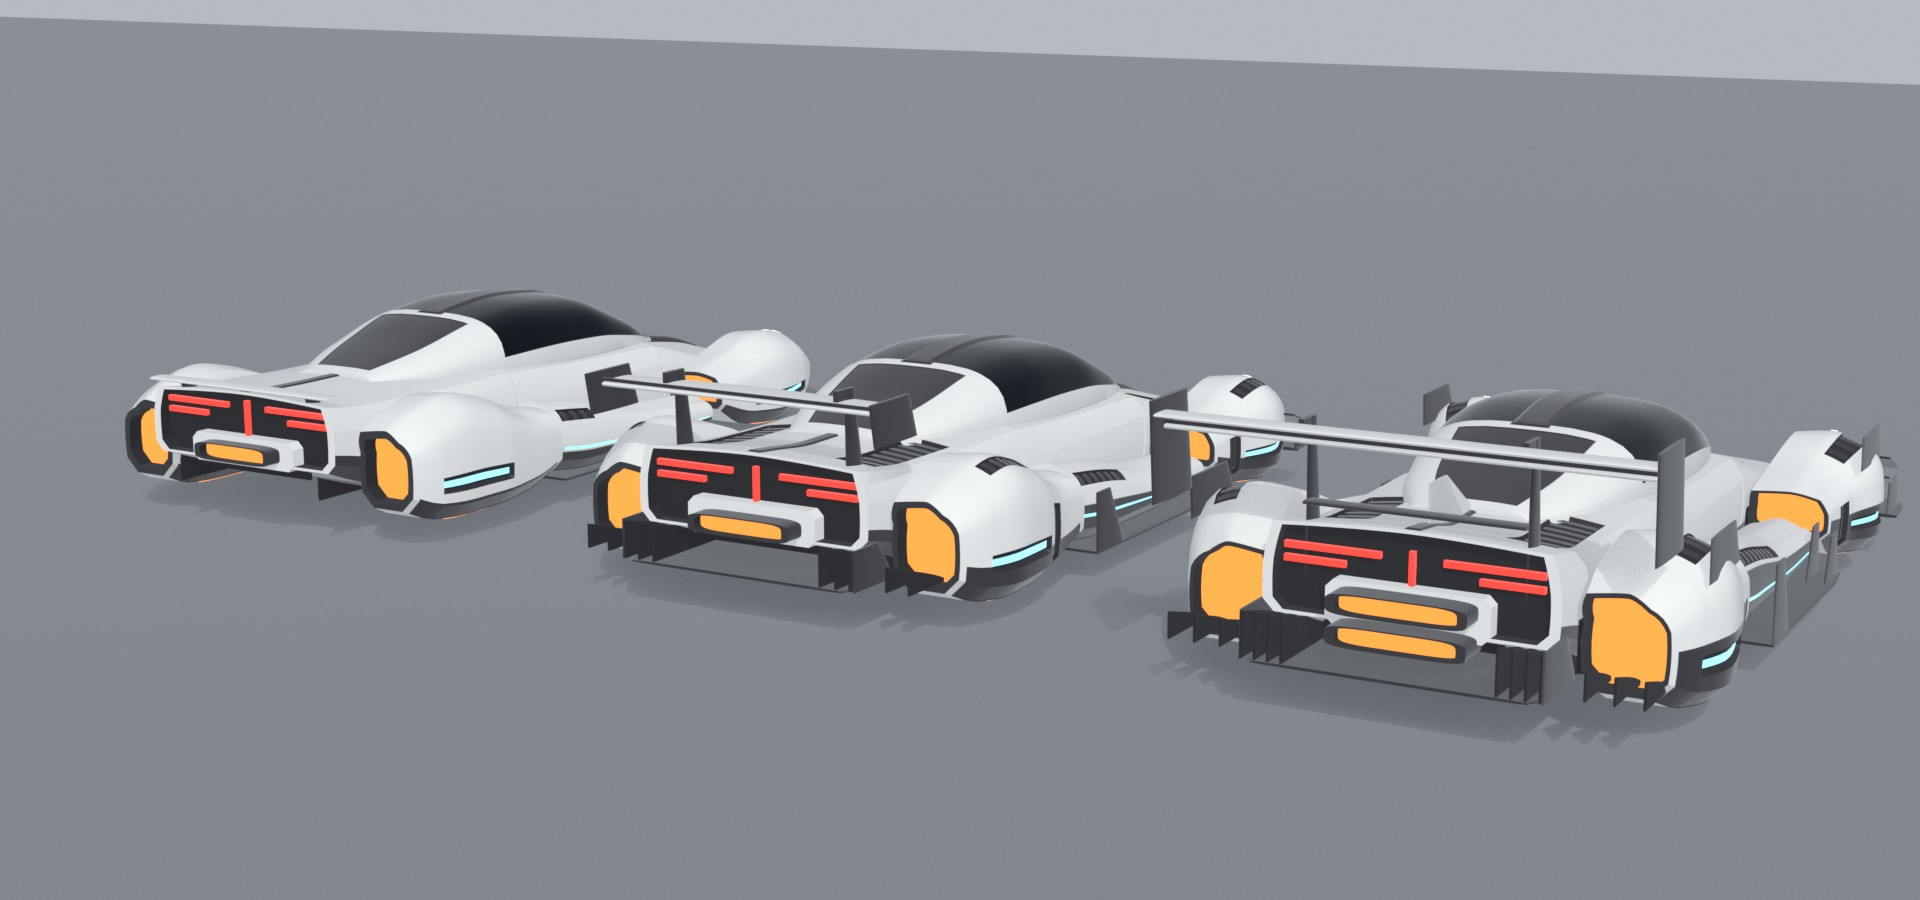
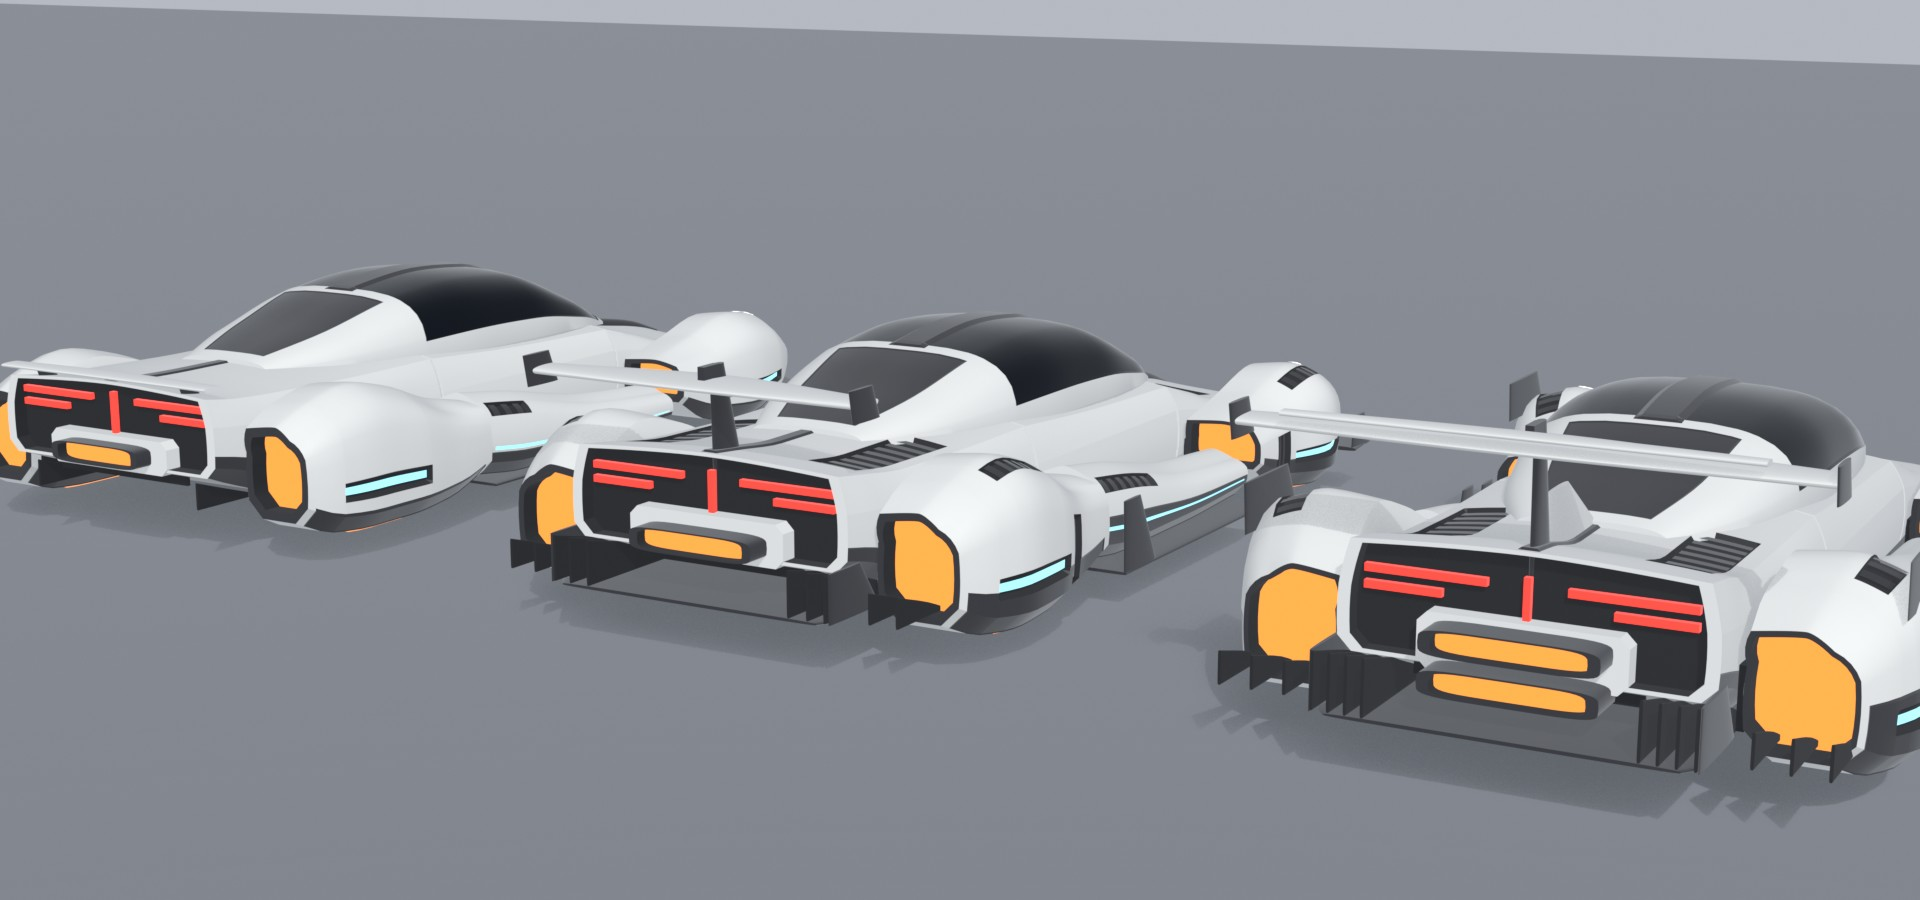
garage: Exotic cars C to F - upgraded modules get a kit wing and front aero per car

Changed region(s): [[0.0, 0.28, 1.0, 0.9022], [0.0, 0.0, 1.0, 0.0933]]

diff --git a/scripts/exotic_category/mesh/cars2.py b/scripts/exotic_category/mesh/cars2.py
@@ -92,16 +92,17 @@ def fender(st, peak, trim, front, style, creases=(1, 2, 3, 4), caps=(False, Fals
     return pod, lvl
 
 
-def front_aero(lvl, tip, cx=5.12, nt=5.0, y=0.35):
-    """Splitter corner under a front fender, with an endplate and dive planes on the kits."""
+def front_aero(lvl, tip, cx=5.12, nt=5.0, y=0.35, canards=True, plate=(0.25, 0.3, 0.5)):
+    """Splitter corner under a front fender, with an endplate and (optionally) dive planes on the kits."""
     reach = tip - (0.0, 0.6, 1.0)[lvl]
     slab("splitter", [(reach, 0.5 + lvl * 0.4), (reach + 0.35, 1.1 + lvl * 0.25), (-10.9, 1.35 + lvl * 0.2)],
          -0.54, -0.42, "secondary", cx=cx + lvl * 0.1, nt=nt, mirror=True)
     if lvl:
-        blade("endplate", 6.5 + lvl * 0.12, -0.5, (0.25, 0.3, 0.5)[lvl], (reach + 0.3, -10.9), (reach + 0.8, -11.0),
+        blade("endplate", 6.5 + lvl * 0.12, -0.5, plate[lvl], (reach + 0.3, -10.9), (reach + 0.8, -11.0),
               "secondary", t=0.04)
+    if lvl and canards:
         canard("canard0", 6.1, 6.9, -11.5, -10.2, y, y + 0.45)
-    if lvl > 1:
+    if lvl > 1 and canards:
         canard("canard1", 6.2, 6.95, -11.1, -9.9, y + 0.6, y + 1.1)
 
 
@@ -220,7 +221,7 @@ def car_c():
         for sd in (1, -1):   # a long running light down the centre of the fender top
             pod.patch(f"drl{sd}", -11.85, -9.5, 5.72, 6.0, "lights", side=sd, off=0.02, mirror=True)
         pod.throat("noz", "max", lip="secondary", back="thrust", scale=(0.78, 0.84, 0.88)[lvl], depth=0.5, mirror=True)
-        front_aero(lvl, -12.05, nt=4.0)
+        front_aero(lvl, -12.05, nt=4.0, canards=False, plate=(0.25, 0.45, 0.7))
         flange(-10.6, -5.6, 0.5)
 
         K.begin(c, "TAIL", trim)
@@ -274,10 +275,14 @@ def car_c():
         if lvl == 0:   # clean lip on two stubs
             plane("lip", 3.7, 11.2, 0.4, 2.76, 2.88, "primary", tip=(11.3, 0.32))
             blade("stub", 2.6, 2.5, 2.8, (10.7, 11.3), (10.9, 11.4), "secondary")
-        elif lvl == 1:
-            race_wing(4.6, 11.2, 0.85, 4.3, 2.8, plate=(3.6, 4.8))
-        else:
-            race_wing(6.2, 11.3, 0.95, 4.9, 2.8, elements=2, plate=(3.1, 5.75), beam=True)
+        else:          # one centre swan pylon carrying a tapered plane, in line with the spine
+            span, y, chord = ((0, 0, 0), (4.4, 4.3, 0.9), (5.8, 4.9, 1.05))[lvl]
+            plane("plane", span, 11.3, chord, y, y + 0.2, "primary", tip=(11.6, chord * 0.5))
+            blade("pylon", 0, 1.25, y + 0.5, (9.7, 11.1), (10.7, 11.2), "secondary", t=0.09)
+            box("hook", (0, y + 0.36, 11.25), (0.18, 0.3, 0.6), "secondary")
+            blade("plate", span, y - 0.25, y + 0.5, (11.1, 12.2), (11.4, 12.35), "secondary", t=0.05)
+            if lvl > 1:
+                plane("flap", span * 0.8, 12.3, 0.34, y + 0.4, y + 0.52, "primary", tip=(12.4, 0.2))
 
 
 # ---------------------------------------------------------------- car D: wraparound-visor supercar
@@ -387,10 +392,14 @@ def car_d():
             plane("plane", 3.5, 11.1, 0.6, 2.45, 2.6, "primary", tip=(11.2, 0.48))
             blade("pylon", 2.6, 1.25, 2.5, (10.5, 11.2), (10.8, 11.4), "secondary")
             blade("plate", 3.52, 2.25, 2.85, (10.7, 11.7), (10.9, 11.85), "secondary", t=0.05)
-        elif lvl == 1:
-            race_wing(4.8, 11.2, 0.9, 4.6, 2.6, plate=(3.8, 5.1))
-        else:
-            race_wing(6.4, 11.3, 1.0, 5.05, 2.6, elements=2, plate=(3.2, 5.9), beam=True)
+        else:          # high wing with tips that turn down toward the rear engines
+            span, y, chord = ((0, 0, 0), (4.7, 4.1, 0.9), (6.2, 4.7, 1.0))[lvl]
+            plane("plane", span, 11.2, chord, y, y + 0.2, "primary", tip=(11.45, chord * 0.7))
+            blade("pylon", 2.4, 1.25, y + 0.05, (10.0, 11.0), (10.7, 11.5), "secondary", t=0.08)
+            blade("tip", span, y - 1.3 - lvl * 0.3, y + 0.15, (11.2, 12.0), (10.9, 12.2), "secondary", t=0.06)
+            box("gurney", (0, y + 0.25, 11.2 + chord - 0.04), (span * 2, 0.1, 0.05), "secondary")
+            if lvl > 1:
+                plane("flap", span, 11.2 + chord + 0.12, 0.4, y + 0.4, y + 0.52, "primary")
 
 
 # ---------------------------------------------------------------- car E: faceted endurance car
@@ -443,7 +452,7 @@ def car_e():
         for i, (dx, y) in enumerate(((-0.3, 0.72), (0.3, 0.72), (-0.3, 0.0), (0.3, 0.0))):
             box(f"point{i}", (5.05 + dx, y, -12.02), (0.1, 0.52, 0.1), "lights", mirror=True)
         pod.throat("noz", "max", lip="secondary", back="thrust", scale=(0.78, 0.84, 0.88)[lvl], depth=0.5, mirror=True)
-        front_aero(lvl, -12.3, nt=7.0)
+        front_aero(lvl, -12.3, nt=7.0, canards=False, plate=(0.25, 0.6, 0.95))
         flange(-11.2, -5.6, 0.5)
 
         K.begin(c, "TAIL", trim)
@@ -457,7 +466,7 @@ def car_e():
         louvres(tail, "deck", (7.1, 6.1, 5.1)[lvl], 10.1, 4.2, 4.7, 6 + lvl * 2, off=-0.08)
         tail.throat("fascia", "max", lip="primary", scale=0.93, depth=0.3)
         box("bar", (0, 2.12, 11.02), (6.9, 0.14, 0.16), "lights_red")
-        tail_kit(lvl, (2.8, 3.25), nt=7.0)
+        tail_kit(lvl, (2.8, 3.25), nt=7.0, fin=False)
 
         K.begin(c, "RPOD", trim)
         st = [(3.6, dict(SIDE_R, yb=-0.5, yt=1.6)),
@@ -488,17 +497,21 @@ def car_e():
         burner("turbine", 11.1, 12.0 + lvl * 0.15, 1.0, 1.28, r)
         box("vane", (1.0, 1.28, 11.9 + lvl * 0.15), (0.06, r * 1.7, 0.2), "detail", mirror=True)
         if lvl > 1:
-            burner("lower", 11.1, 12.0, 1.0, 0.3, 0.3)
+            burner("outer", 11.1, 12.0, 1.95, 1.28, 0.3)
 
         K.begin(c, "WING", trim)
         if lvl == 0:   # full-width low blade with end fences
             plane("plane", 3.85, 11.0, 0.5, 2.95, 3.08, "primary")
             blade("fence", 3.86, 2.3, 3.35, (10.4, 11.6), (10.55, 11.75), "secondary", t=0.05)
             blade("stub", 2.7, 2.38, 2.98, (10.6, 11.2), (10.75, 11.3), "secondary")
-        elif lvl == 1:
-            race_wing(4.7, 11.2, 0.85, 4.4, 2.7, plate=(3.6, 4.95))
-        else:
-            race_wing(6.3, 11.3, 0.95, 4.9, 2.7, elements=2, plate=(3.1, 5.8), beam=True)
+        else:          # bridge wing: the plane spans two tall fins that stand at the edges of the tail
+            span, y, chord = ((0, 0, 0), (3.7, 4.3, 0.8), (3.75, 5.0, 0.95))[lvl]
+            plane("plane", span, 11.3, chord, y, y + 0.2, "primary")
+            blade("fin", span, 1.25, y + 0.75, (9.4, 11.9), (10.7, 12.3), "secondary", t=0.07)
+            box("gurney", (0, y + 0.25, 11.3 + chord - 0.04), (span * 2, 0.1, 0.05), "secondary")
+            if lvl > 1:
+                plane("flap", span, 11.3 + chord + 0.1, 0.36, y + 0.4, y + 0.52, "primary")
+                plane("beam", span, 10.9, 0.3, 3.3, 3.42, "secondary")
 
 
 # ---------------------------------------------------------------- car F: aero hypercar
